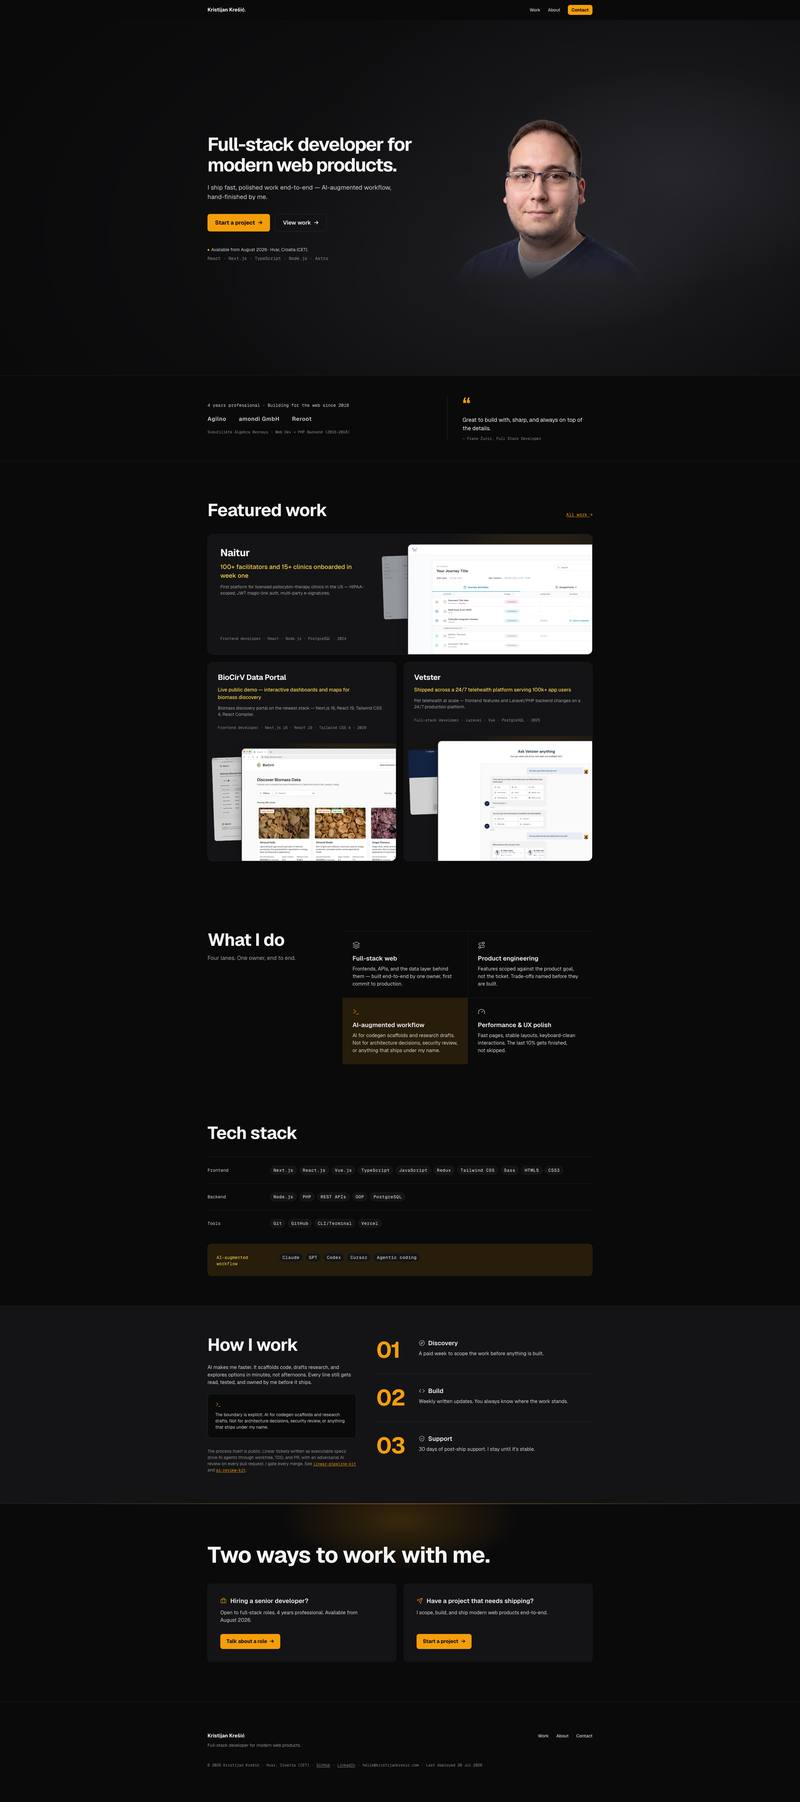
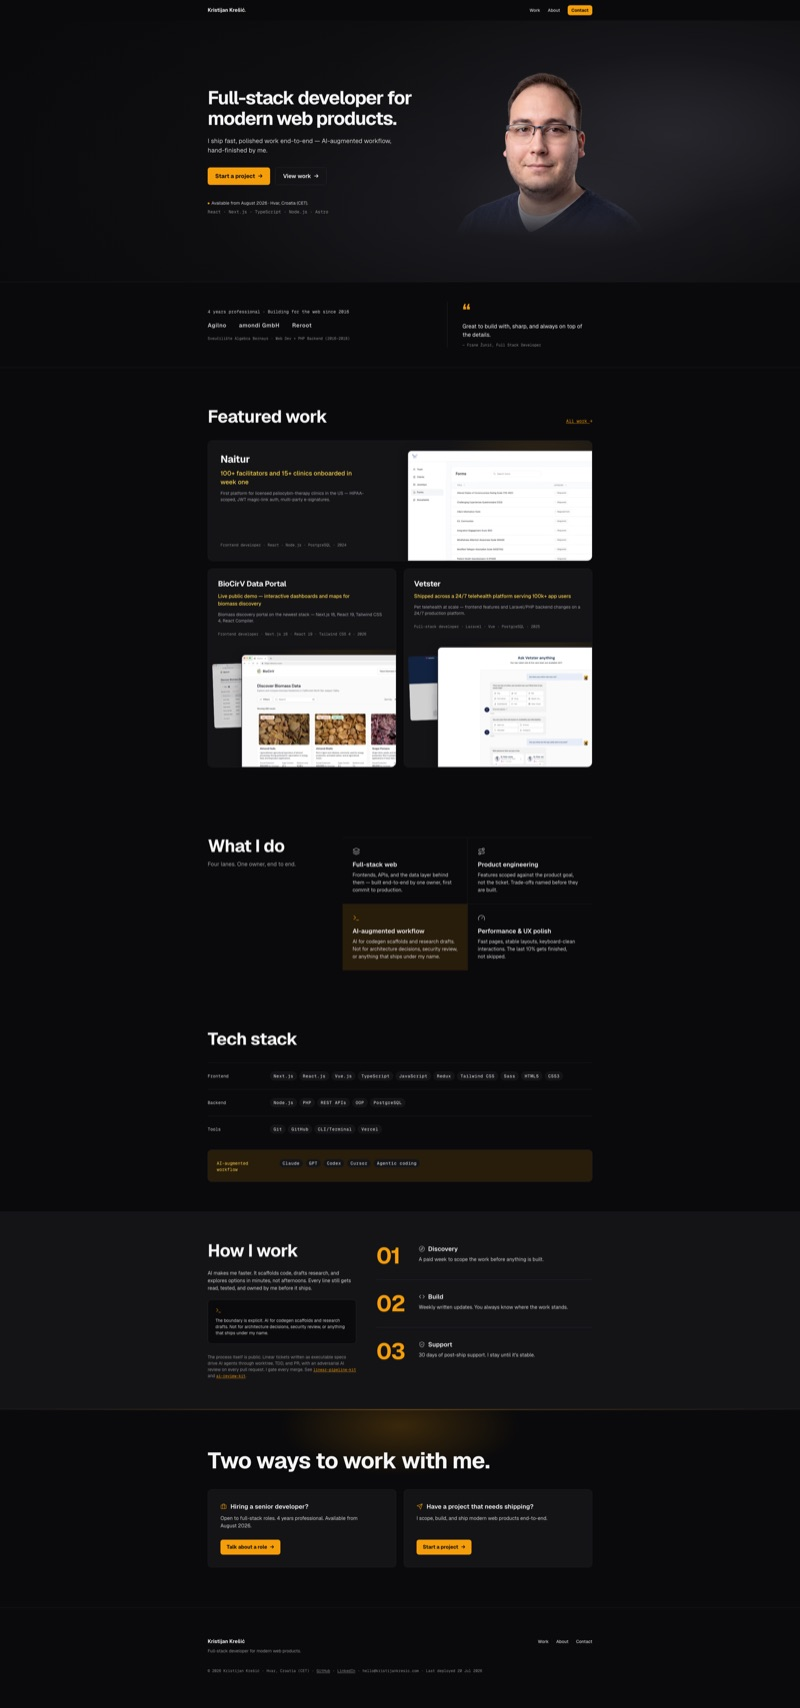
fix(featured-work): swap naitur cover to client-data-free forms frame
Codex P1: dashboard/journey frames showed a logged-in user name and a
client-name list inside a HIPAA-scoped product. Frames are Figma design
exports with placeholder personas, but a viewer cannot verify that, so
the clearance rule (non-sensitive surfaces only) applies. New cover is
the forms-catalog frame (published clinical instruments, zero client
rows); peek dropped — every other naitur frame shows identity-shaped
placeholder data. After-screenshots regenerated from the new build.

diff --git a/src/components/sections/sections.test.ts b/src/components/sections/sections.test.ts
@@ -55,9 +55,8 @@ const workEntries = [
       draft: false,
       featured: true,
       order: 1,
-      cover: 'naitur-dashboard.webp',
-      coverPeek: 'naitur-journey.webp',
-      coverAlt: 'Naitur client dashboard',
+      cover: 'naitur-forms.webp',
+      coverAlt: 'Naitur forms catalog',
     },
   },
   {
@@ -219,12 +218,13 @@ describe('FeaturedWork', () => {
   });
 
   it('renders a lazy layered cover composition per card from real harvest picks', () => {
-    expect(featuredWorkHtml).toContain('Naitur client dashboard');
+    expect(featuredWorkHtml).toContain('Naitur forms catalog');
     expect(featuredWorkHtml).toContain('BioCirV Discover biomass data grid');
     expect(featuredWorkHtml).toContain('Vetster — Ask Vetster AI chat');
     expect(featuredWorkHtml).toContain('loading="lazy"');
-    // Main cover + peeking signature frame per card = at least 6 images.
-    expect((featuredWorkHtml.match(/<img/g) ?? []).length).toBeGreaterThanOrEqual(6);
+    // 3 main covers + 2 peeking signature frames (naitur ships cover-only:
+    // every other harvest frame shows client-identity placeholder data).
+    expect((featuredWorkHtml.match(/<img/g) ?? []).length).toBeGreaterThanOrEqual(5);
   });
 
   it('ships zero client JS and no raw hex', () => {
